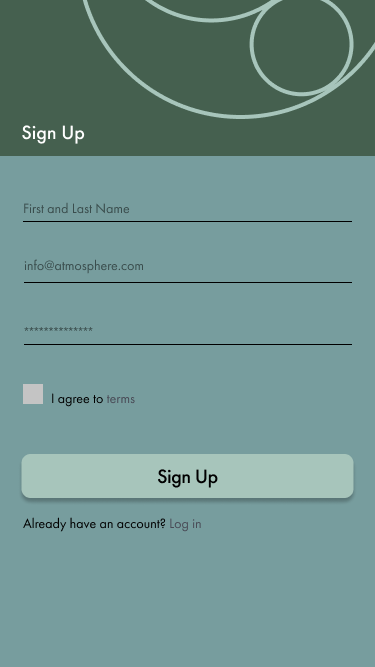
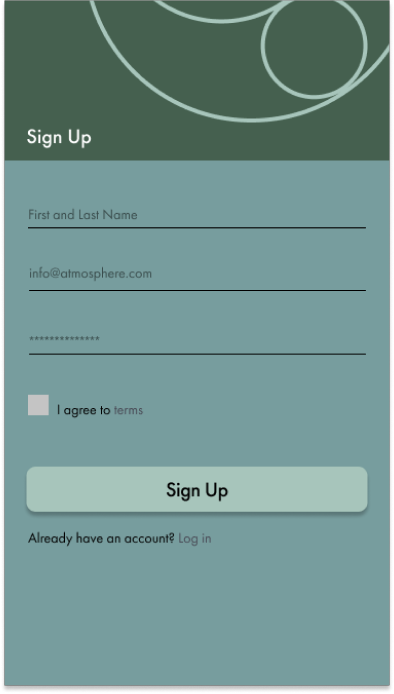
mockup added

diff --git a/krania.html b/krania.html
@@ -42,7 +42,7 @@
         </div>
       </section>
 
-      <img class="main-mockup" src="images/poplock_phonemockup.png" alt="landing mockup" id="krania">
+      <img class="main-mockup" src="images/krania_mockup.png" alt="landing mockup" id="krania">
 
       <section class="specifications" id="krania">
           <section class="lists" id="krania">
@@ -380,6 +380,15 @@
         <img class="hifi-v4" src="images/krania_hifi4.png" alt="version 1 landing">
         <img class="hifi-v5" src="images/krania_hifi5.png" alt="version 1 landing">
         <img class="hifi-v6" src="images/krania_hifi6.png" alt="version 1 landing">
+    </section>
+
+
+    <section class="revisions">
+      <div class="revisions-text">
+        <h3> Revisions </h3>
+          <p>I went through several revisions to get to the final point. All revisions were informed from user feedback. I would see that users were stumbling in certain flows more than others, and that helped to quickly pinpoint what exactly could be done better.  </p>
+          <p>For some instances, I wasn’t sure what could have been done better straight away, so I made changes that I thought might work and tested those too. Below I will detail some of those changes. </p>
+      </div>
     </section>
 
 
